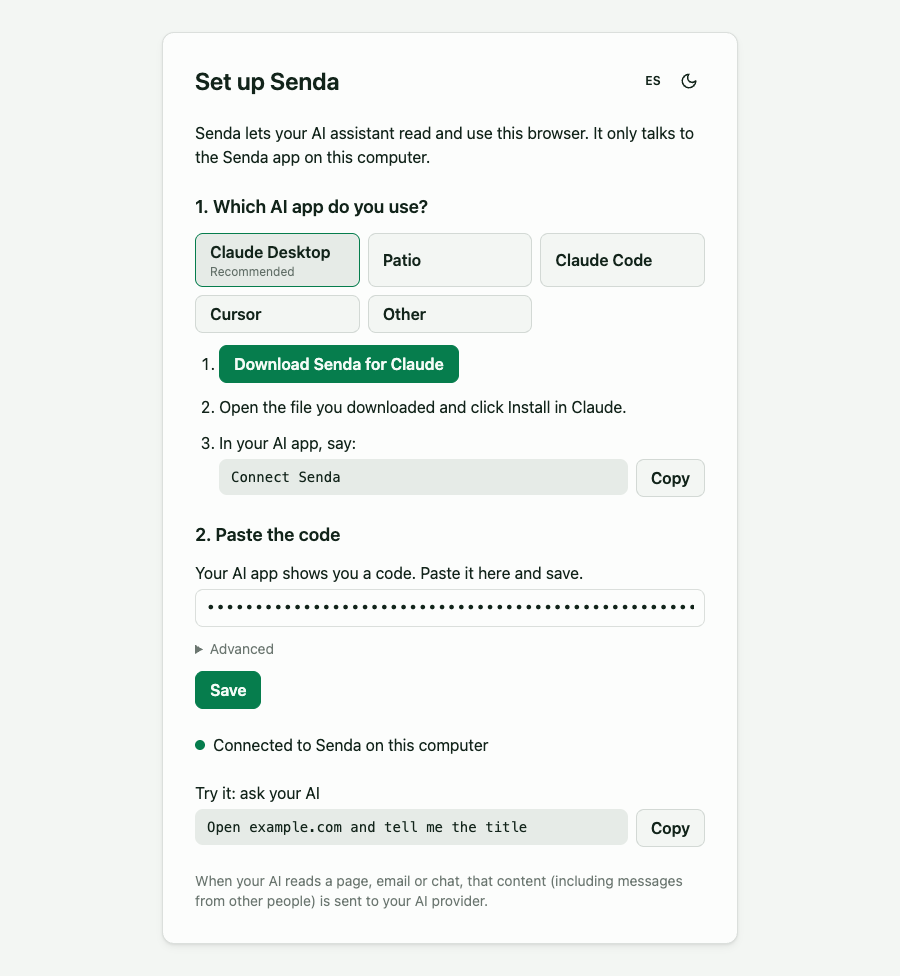
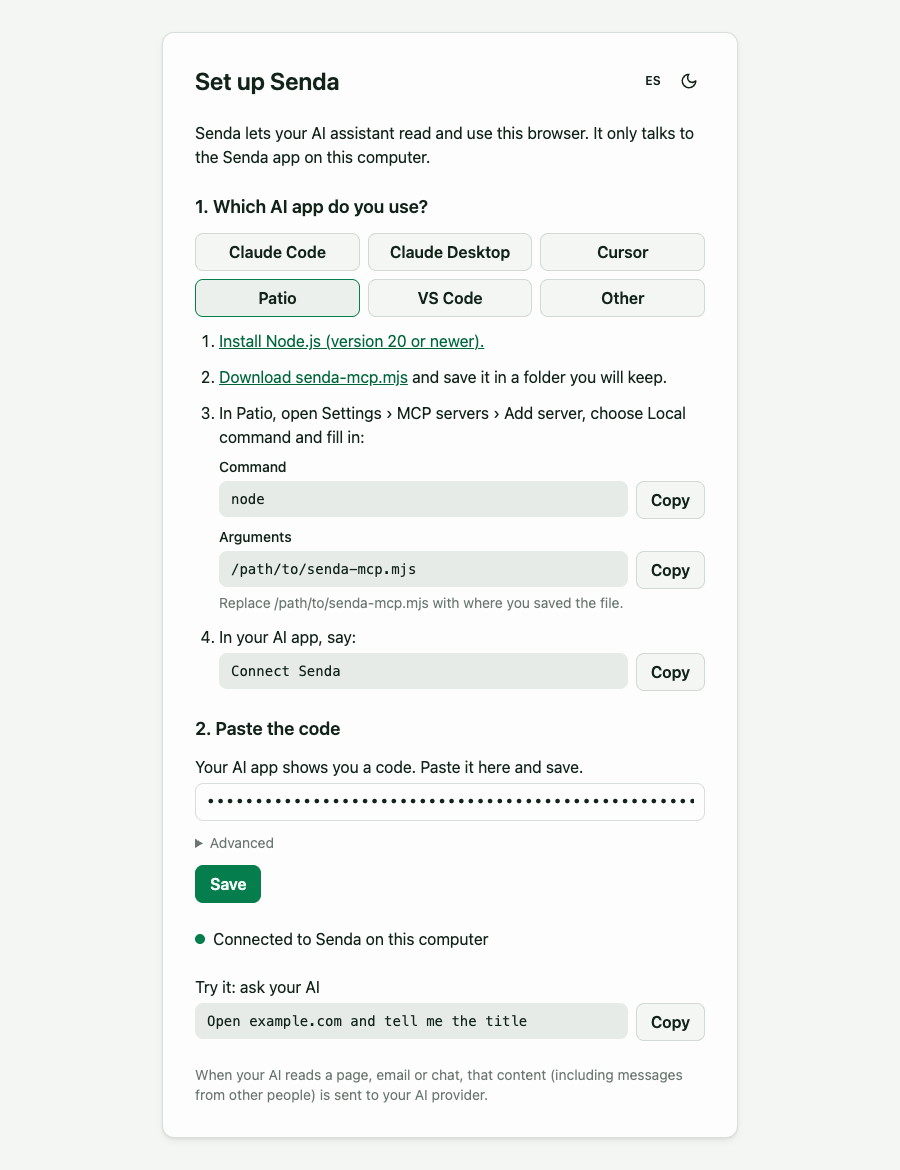
fix(extension): neutral setup page: no preselected or recommended app, alphabetical equal-size choices, VS Code steps (PROJ-277)

diff --git a/packages/extension/entrypoints/onboarding/App.tsx b/packages/extension/entrypoints/onboarding/App.tsx
@@ -8,7 +8,7 @@ import { useItem } from '@/src/ui/useItem';
 
 const RELEASE = 'https://github.com/epulla/senda/releases/latest/download';
 const SERVER_PATH = '/path/to/senda-mcp.mjs';
-const APPS = ['claude', 'patio', 'claudeCode', 'cursor', 'other'] as const;
+const APPS = ['claudeCode', 'claude', 'cursor', 'patio', 'vscode', 'other'] as const;
 type App = (typeof APPS)[number];
 
 function Copy({ value }: { value: string }) {
@@ -38,7 +38,7 @@ export default function App() {
   const [status] = useItem(statusItem);
   const [draft, setDraft] = useState('');
   const [portDraft, setPortDraft] = useState('');
-  const [app, setApp] = useState<App>('claude');
+  const [app, setApp] = useState<App>();
   useEffect(() => setDraft(token), [token]);
   useEffect(() => setPortDraft(String(port)), [port]);
 
@@ -63,11 +63,11 @@ export default function App() {
       <p>{t.intro}</p>
       <section className="space-y-3">
         <h2 className="text-lg font-semibold">{t.chooseApp}</h2>
-        <div role="radiogroup" aria-label={t.chooseApp} className="grid grid-cols-2 gap-2 sm:grid-cols-3">
+        <div role="radiogroup" aria-label={t.chooseApp} className="grid auto-rows-fr grid-cols-2 gap-2 sm:grid-cols-3">
           {APPS.map((id) => (
             <label
               key={id}
-              className="btn cursor-pointer !flex-col !items-start !gap-0 !whitespace-normal text-left has-checked:!border-primary has-checked:!bg-base-300 has-focus-visible:outline-2 has-focus-visible:outline-offset-2 has-focus-visible:outline-primary"
+              className="btn cursor-pointer !whitespace-normal text-center has-checked:!border-primary has-checked:!bg-base-300 has-focus-visible:outline-2 has-focus-visible:outline-offset-2 has-focus-visible:outline-primary"
             >
               <input
                 type="radio"
@@ -77,52 +77,63 @@ export default function App() {
                 onChange={() => setApp(id)}
               />
               {t.apps[id]}
-              {id === 'claude' && <span className="text-xs font-normal text-muted">{t.recommended}</span>}
             </label>
           ))}
         </div>
-        <ol className="list-decimal space-y-3 pl-6">
-          {app === 'claude' ? (
-            <>
-              <li>
-                <a className="btn btn-primary !no-underline" href={`${RELEASE}/senda.mcpb`}>
-                  {t.claudeDownload}
-                </a>
-              </li>
-              <li>{t.claudeInstall}</li>
-            </>
-          ) : (
-            <>
-              <li>
-                <a href="https://nodejs.org" target="_blank" rel="noreferrer">
-                  {t.installNode}
-                </a>
-              </li>
-              <li>
-                <a href={`${RELEASE}/senda-mcp.mjs`}>{t.downloadServer}</a>
-                {t.keepFile}
-              </li>
-              <li>
-                {t[app]}
-                {app === 'patio' ? (
-                  <>
-                    <div className="mt-2 text-sm font-medium">{t.command}</div>
-                    <Copy value="node" />
-                    <div className="mt-2 text-sm font-medium">{t.args}</div>
-                    <Copy value={SERVER_PATH} />
-                  </>
-                ) : (
-                  <Copy value={app === 'claudeCode' ? `claude mcp add senda -- node ${SERVER_PATH}` : config} />
-                )}
-                <p className="mt-1 text-sm text-muted">{t.replacePath}</p>
-              </li>
-            </>
-          )}
-          <li>
-            {t.sayConnect}
-            <Copy value={t.connectPrompt} />
-          </li>
-        </ol>
+        {!app ? (
+          <p className="text-muted">{t.pickApp}</p>
+        ) : (
+          <ol className="list-decimal space-y-3 pl-6">
+            {app === 'claude' ? (
+              <>
+                <li>
+                  <a className="btn btn-primary !no-underline" href={`${RELEASE}/senda.mcpb`}>
+                    {t.claudeDownload}
+                  </a>
+                </li>
+                <li>{t.claudeInstall}</li>
+              </>
+            ) : (
+              <>
+                <li>
+                  <a href="https://nodejs.org" target="_blank" rel="noreferrer">
+                    {t.installNode}
+                  </a>
+                </li>
+                <li>
+                  <a href={`${RELEASE}/senda-mcp.mjs`}>{t.downloadServer}</a>
+                  {t.keepFile}
+                </li>
+                <li>
+                  {t[app]}
+                  {app === 'patio' ? (
+                    <>
+                      <div className="mt-2 text-sm font-medium">{t.command}</div>
+                      <Copy value="node" />
+                      <div className="mt-2 text-sm font-medium">{t.args}</div>
+                      <Copy value={SERVER_PATH} />
+                    </>
+                  ) : (
+                    <Copy
+                      value={
+                        app === 'claudeCode'
+                          ? `claude mcp add senda -- node ${SERVER_PATH}`
+                          : app === 'vscode'
+                            ? `node ${SERVER_PATH}`
+                            : config
+                      }
+                    />
+                  )}
+                  <p className="mt-1 text-sm text-muted">{t.replacePath}</p>
+                </li>
+              </>
+            )}
+            <li>
+              {t.sayConnect}
+              <Copy value={t.connectPrompt} />
+            </li>
+          </ol>
+        )}
       </section>
       <form onSubmit={save} className="space-y-3">
         <h2 className="text-lg font-semibold">{t.pasteCode}</h2>

diff --git a/packages/extension/e2e/setup.spec.ts b/packages/extension/e2e/setup.spec.ts
@@ -3,15 +3,28 @@ import { test, expect } from './fixtures';
 test('setup page guides by AI app and pairs with the code the AI shows', async ({ context, extensionId, server }) => {
   const page = await context.newPage();
   await page.goto(`chrome-extension://${extensionId}/onboarding.html`);
-  const claude = page.getByRole('radio', { name: /Claude Desktop/ });
-  await expect(claude).toBeChecked();
+  const radios = page.getByRole('radio');
+  await expect(radios).toHaveCount(6);
+  for (const radio of await radios.all()) await expect(radio).not.toBeChecked();
+  await expect(page.getByText('Pick your AI app to see its steps.')).toBeVisible();
+  await expect(page.getByText('Connect Senda')).toHaveCount(0);
+
+  for (const width of [900, 420]) {
+    await page.setViewportSize({ width, height: 900 });
+    const boxes = await page.locator('[role=radiogroup] label').evaluateAll((labels) =>
+      labels.map((label) => {
+        const { width, height } = label.getBoundingClientRect();
+        return `${Math.round(width)}x${Math.round(height)}`;
+      }),
+    );
+    expect(new Set(boxes).size).toBe(1);
+  }
+
+  await page.locator('label', { hasText: 'Claude Desktop' }).click();
   await expect(page.getByRole('link', { name: 'Download Senda for Claude' })).toHaveAttribute('href', /\/releases\/latest\/download\/senda\.mcpb$/);
   await expect(page.getByText('Node.js')).toHaveCount(0);
 
-  await claude.focus();
   await page.keyboard.press('ArrowRight');
-  await expect(page.getByRole('radio', { name: 'Patio' })).toBeChecked();
-  await page.locator('label', { hasText: 'Cursor' }).click();
   await expect(page.getByRole('radio', { name: 'Cursor' })).toBeChecked();
   await expect(page.getByRole('link', { name: /Node\.js/ })).toBeVisible();
   await expect(page.getByText('"mcpServers"')).toBeVisible();

diff --git a/packages/extension/src/core/text/es.ts b/packages/extension/src/core/text/es.ts
@@ -39,8 +39,8 @@ export const es: Text = {
     intro:
       'Senda permite que tu asistente de IA lea y use este navegador. Solo se comunica con la app de Senda en esta computadora.',
     chooseApp: '1. ¿Qué app de IA usas?',
-    recommended: 'Recomendado',
-    apps: { claude: 'Claude Desktop', patio: 'Patio', claudeCode: 'Claude Code', cursor: 'Cursor', other: 'Otra' },
+    pickApp: 'Elige tu app de IA para ver sus pasos.',
+    apps: { claudeCode: 'Claude Code', claude: 'Claude Desktop', cursor: 'Cursor', patio: 'Patio', vscode: 'VS Code', other: 'Otra' },
     claudeDownload: 'Descargar Senda para Claude',
     claudeInstall: 'Abre el archivo que descargaste y haz clic en Instalar en Claude.',
     installNode: 'Instala Node.js (versión 20 o más reciente).',
@@ -51,6 +51,7 @@ export const es: Text = {
     args: 'Argumentos',
     claudeCode: 'Agrega Senda a Claude Code:',
     cursor: 'En los ajustes de Cursor, agrega un nuevo servidor MCP con:',
+    vscode: 'En VS Code, abre la paleta de comandos, ejecuta "MCP: Add Server", elige Command (stdio), pega este comando y llama al servidor senda:',
     other: 'Agrega este servidor en los ajustes de tu app de IA:',
     replacePath: 'Cambia /path/to/senda-mcp.mjs por la ubicación donde guardaste el archivo.',
     sayConnect: 'En tu app de IA, escribe:',

diff --git a/packages/extension/src/core/text/en.ts b/packages/extension/src/core/text/en.ts
@@ -36,8 +36,8 @@ export const en = {
     title: 'Set up Senda',
     intro: 'Senda lets your AI assistant read and use this browser. It only talks to the Senda app on this computer.',
     chooseApp: '1. Which AI app do you use?',
-    recommended: 'Recommended',
-    apps: { claude: 'Claude Desktop', patio: 'Patio', claudeCode: 'Claude Code', cursor: 'Cursor', other: 'Other' },
+    pickApp: 'Pick your AI app to see its steps.',
+    apps: { claudeCode: 'Claude Code', claude: 'Claude Desktop', cursor: 'Cursor', patio: 'Patio', vscode: 'VS Code', other: 'Other' },
     claudeDownload: 'Download Senda for Claude',
     claudeInstall: 'Open the file you downloaded and click Install in Claude.',
     installNode: 'Install Node.js (version 20 or newer).',
@@ -48,6 +48,7 @@ export const en = {
     args: 'Arguments',
     claudeCode: 'Add Senda to Claude Code:',
     cursor: 'In Cursor settings, add a new MCP server with:',
+    vscode: 'In VS Code, open the Command Palette, run "MCP: Add Server", choose Command (stdio), paste this command and name the server senda:',
     other: 'Add this server to your AI app settings:',
     replacePath: 'Replace /path/to/senda-mcp.mjs with where you saved the file.',
     sayConnect: 'In your AI app, say:',

diff --git a/packages/extension/e2e/readme-shots.spec.ts b/packages/extension/e2e/readme-shots.spec.ts
@@ -14,10 +14,11 @@ textarea{height:96px}button{justify-self:start;padding:8px 20px;border:0;border-
 test('README screenshots', async ({ context, mcp, openSidepanel }) => {
   const setup = context.pages().find((p) => p.url().endsWith('/onboarding.html'))!;
   await setup.setViewportSize({ width: 900, height: 760 });
+  await setup.locator('label', { hasText: 'Patio' }).click();
   await setup.screenshot({ path: out('setup.png'), fullPage: true });
   await setup.setViewportSize(store);
   // The whole page is taller than 800 px; shrink it so the store shot shows every step.
-  await setup.evaluate(() => (document.body.style.zoom = '0.8'));
+  await setup.evaluate((height) => (document.body.style.zoom = String(height / document.documentElement.scrollHeight)), store.height);
   await setup.screenshot({ path: out('store/screenshots/setup.png') });
 
   const file = new URL('../tests/fixtures/adapters/fixturemoodle.json', import.meta.url);

diff --git a/README.md b/README.md
@@ -11,11 +11,11 @@
 
 **Why wire up API keys and a separate connector for every app, when you're already logged in to all of them in your browser?**
 
-Senda is a browser extension plus a local MCP server. Your AI assistant (Claude Desktop, Claude Code, Patio or any MCP client) can open pages, read them, click and type in your own browser, signed in as you. It works only in tabs it opens, inside a visible "🤖 MCP" tab group, and by default stops to ask you on the page before actions that look like sending, changing or deleting something.
+Senda is a browser extension plus a local MCP server. Your AI assistant (Claude Code, Claude Desktop, Cursor, Patio, VS Code or any MCP client) can open pages, read them, click and type in your own browser, signed in as you. It works only in tabs it opens, inside a visible "🤖 MCP" tab group, and by default stops to ask you on the page before actions that look like sending, changing or deleting something.
 
 <p align="center">
   <a href="https://chromewebstore.google.com/detail/senda/cmcjkfkendenhffongjoefpiookiocpe"><img src="https://img.shields.io/chrome-web-store/v/cmcjkfkendenhffongjoefpiookiocpe?style=for-the-badge&logo=googlechrome&logoColor=white&label=Download%20for%20Chrome&color=2ea44f" height="48" alt="Download Senda for Chrome"></a><br>
-  <sub>Chrome, Brave or Edge · for Claude Desktop: <a href="https://github.com/epulla/senda/releases/latest/download/senda.mcpb">senda.mcpb</a> · server: <a href="https://github.com/epulla/senda/releases/latest/download/senda-mcp.mjs">senda-mcp.mjs</a> · <a href="#quick-start">install steps</a> · <a href="https://github.com/epulla/senda/releases">all releases</a></sub>
+  <sub>Chrome, Brave or Edge · server: <a href="https://github.com/epulla/senda/releases/latest/download/senda-mcp.mjs">senda-mcp.mjs</a> · Claude Desktop bundle: <a href="https://github.com/epulla/senda/releases/latest/download/senda.mcpb">senda.mcpb</a> · <a href="#quick-start">install steps</a> · <a href="https://github.com/epulla/senda/releases">all releases</a></sub>
 </p>
 
 <p align="center">
@@ -47,25 +47,21 @@ Many browser MCP servers drive a separate, automated browser. Senda takes a diff
 
 Needs a Chromium browser (Chrome, Brave or Edge).
 
-1. **Install the extension** from the [Chrome Web Store](https://chromewebstore.google.com/detail/senda/cmcjkfkendenhffongjoefpiookiocpe) (works in Chrome, Brave and Edge). A setup page opens; it walks you through the steps below for your AI app. You can reopen it from the Senda toolbar icon.
+1. **Install the extension** from the [Chrome Web Store](https://chromewebstore.google.com/detail/senda/cmcjkfkendenhffongjoefpiookiocpe) (works in Chrome, Brave and Edge). A setup page opens; pick your AI app there and it shows the steps. You can reopen it from the Senda toolbar icon.
 
    Or load it unpacked: download `senda-extension-<version>-chrome.zip` from the [latest release](https://github.com/epulla/senda/releases/latest), unzip it into a folder you will keep, open `chrome://extensions` (or `brave://extensions`, `edge://extensions`), turn on Developer mode, click **Load unpacked** and pick the folder.
 
-2. **Add Senda to your AI app.**
+2. **Add Senda to your AI app.** Pick your AI app on the setup page to see its steps. In short:
 
-   **Claude Desktop (easiest, no Node.js needed):** download [`senda.mcpb`](https://github.com/epulla/senda/releases/latest/download/senda.mcpb), open it and click **Install** in Claude.
-
-   **Patio:** needs [Node.js](https://nodejs.org) 20+. Download [`senda-mcp.mjs`](https://github.com/epulla/senda/releases/latest/download/senda-mcp.mjs) and save it somewhere you will keep, for example `~/.senda/senda-mcp.mjs`. In Patio, open Settings › MCP servers › Add server, choose Local command, set Command to `node` and Arguments to the absolute path of `senda-mcp.mjs`.
-
-   **Claude Code, Cursor and other MCP clients:** needs [Node.js](https://nodejs.org) 20+ and [`senda-mcp.mjs`](https://github.com/epulla/senda/releases/latest/download/senda-mcp.mjs) as above.
-
-   Claude Code:
+   **Claude Code:** needs [Node.js](https://nodejs.org) 20+ and [`senda-mcp.mjs`](https://github.com/epulla/senda/releases/latest/download/senda-mcp.mjs), saved somewhere you will keep (for example `~/.senda/senda-mcp.mjs`). Then:
 
    ```sh
    claude mcp add senda -- node /path/to/senda-mcp.mjs
    ```
 
-   Any MCP client that takes a JSON config:
+   **Claude Desktop:** download [`senda.mcpb`](https://github.com/epulla/senda/releases/latest/download/senda.mcpb), open it and click **Install** in Claude. No Node.js needed.
+
+   **Cursor and other MCP clients that take a JSON config:** needs Node.js 20+ and `senda-mcp.mjs` as above. Add:
 
    ```json
    {
@@ -77,6 +73,10 @@ Needs a Chromium browser (Chrome, Brave or Edge).
      }
    }
    ```
+
+   **Patio:** needs Node.js 20+ and `senda-mcp.mjs` as above. Open Settings › MCP servers › Add server, choose Local command, set Command to `node` and Arguments to the absolute path of `senda-mcp.mjs`.
+
+   **VS Code (GitHub Copilot):** needs Node.js 20+ and `senda-mcp.mjs` as above. Run **MCP: Add Server** from the Command Palette, choose **Command (stdio)**, enter `node /path/to/senda-mcp.mjs` and name it `senda`.
 
 3. **Pair.** Ask your AI: "Connect Senda". It shows a code; paste it into the Senda setup page and click Save. (Or print the code yourself: `node /path/to/senda-mcp.mjs token`.)
 

diff --git a/AGENTS.md b/AGENTS.md
@@ -71,7 +71,7 @@ Before finishing a change, run `pnpm compile && pnpm test`. Run e2e only for the
 - Before tagging, test the assets from an empty temp dir: unzip and Load unpacked, `node senda-mcp.mjs token`, pair, one tool call; install `senda.mcpb` in Claude Desktop, say "Connect Senda", pair, one tool call.
 - Publish: `git tag v<version> && git push origin v<version>`, then `gh release create v<version> senda-extension-<version>-chrome.zip senda-mcp.mjs senda.mcpb --title "Senda v<version>" --notes-file <notes>` (personal account `epulla`).
 - The README Download button points to `releases/latest`; `senda-mcp.mjs` and `senda.mcpb` are linked via `releases/latest/download/<file>` (README and setup page), so keep those names unversioned.
-- Chrome Web Store: `pnpm --filter @senda/extension zip:store` → `packages/extension/.output/senda-extension-<version>-chrome-store.zip` (same build, manifest without `key`; the store rejects it). Upload that zip, never the release zip. Screenshots: `docs/assets/store/screenshots/`. Listing setup line: "Install, then follow the setup page."
+- Chrome Web Store: `pnpm --filter @senda/extension zip:store` → `packages/extension/.output/senda-extension-<version>-chrome-store.zip` (same build, manifest without `key`; the store rejects it). Upload that zip, never the release zip. Screenshots: `docs/assets/store/screenshots/`. Listing setup line: "Install, then pick your AI app on the setup page." Keep app lists alphabetical and neutral everywhere (setup page, README, store): no app recommended or named first as easiest.
 - No store publishing without a separate go.
 
 ## UI copy
